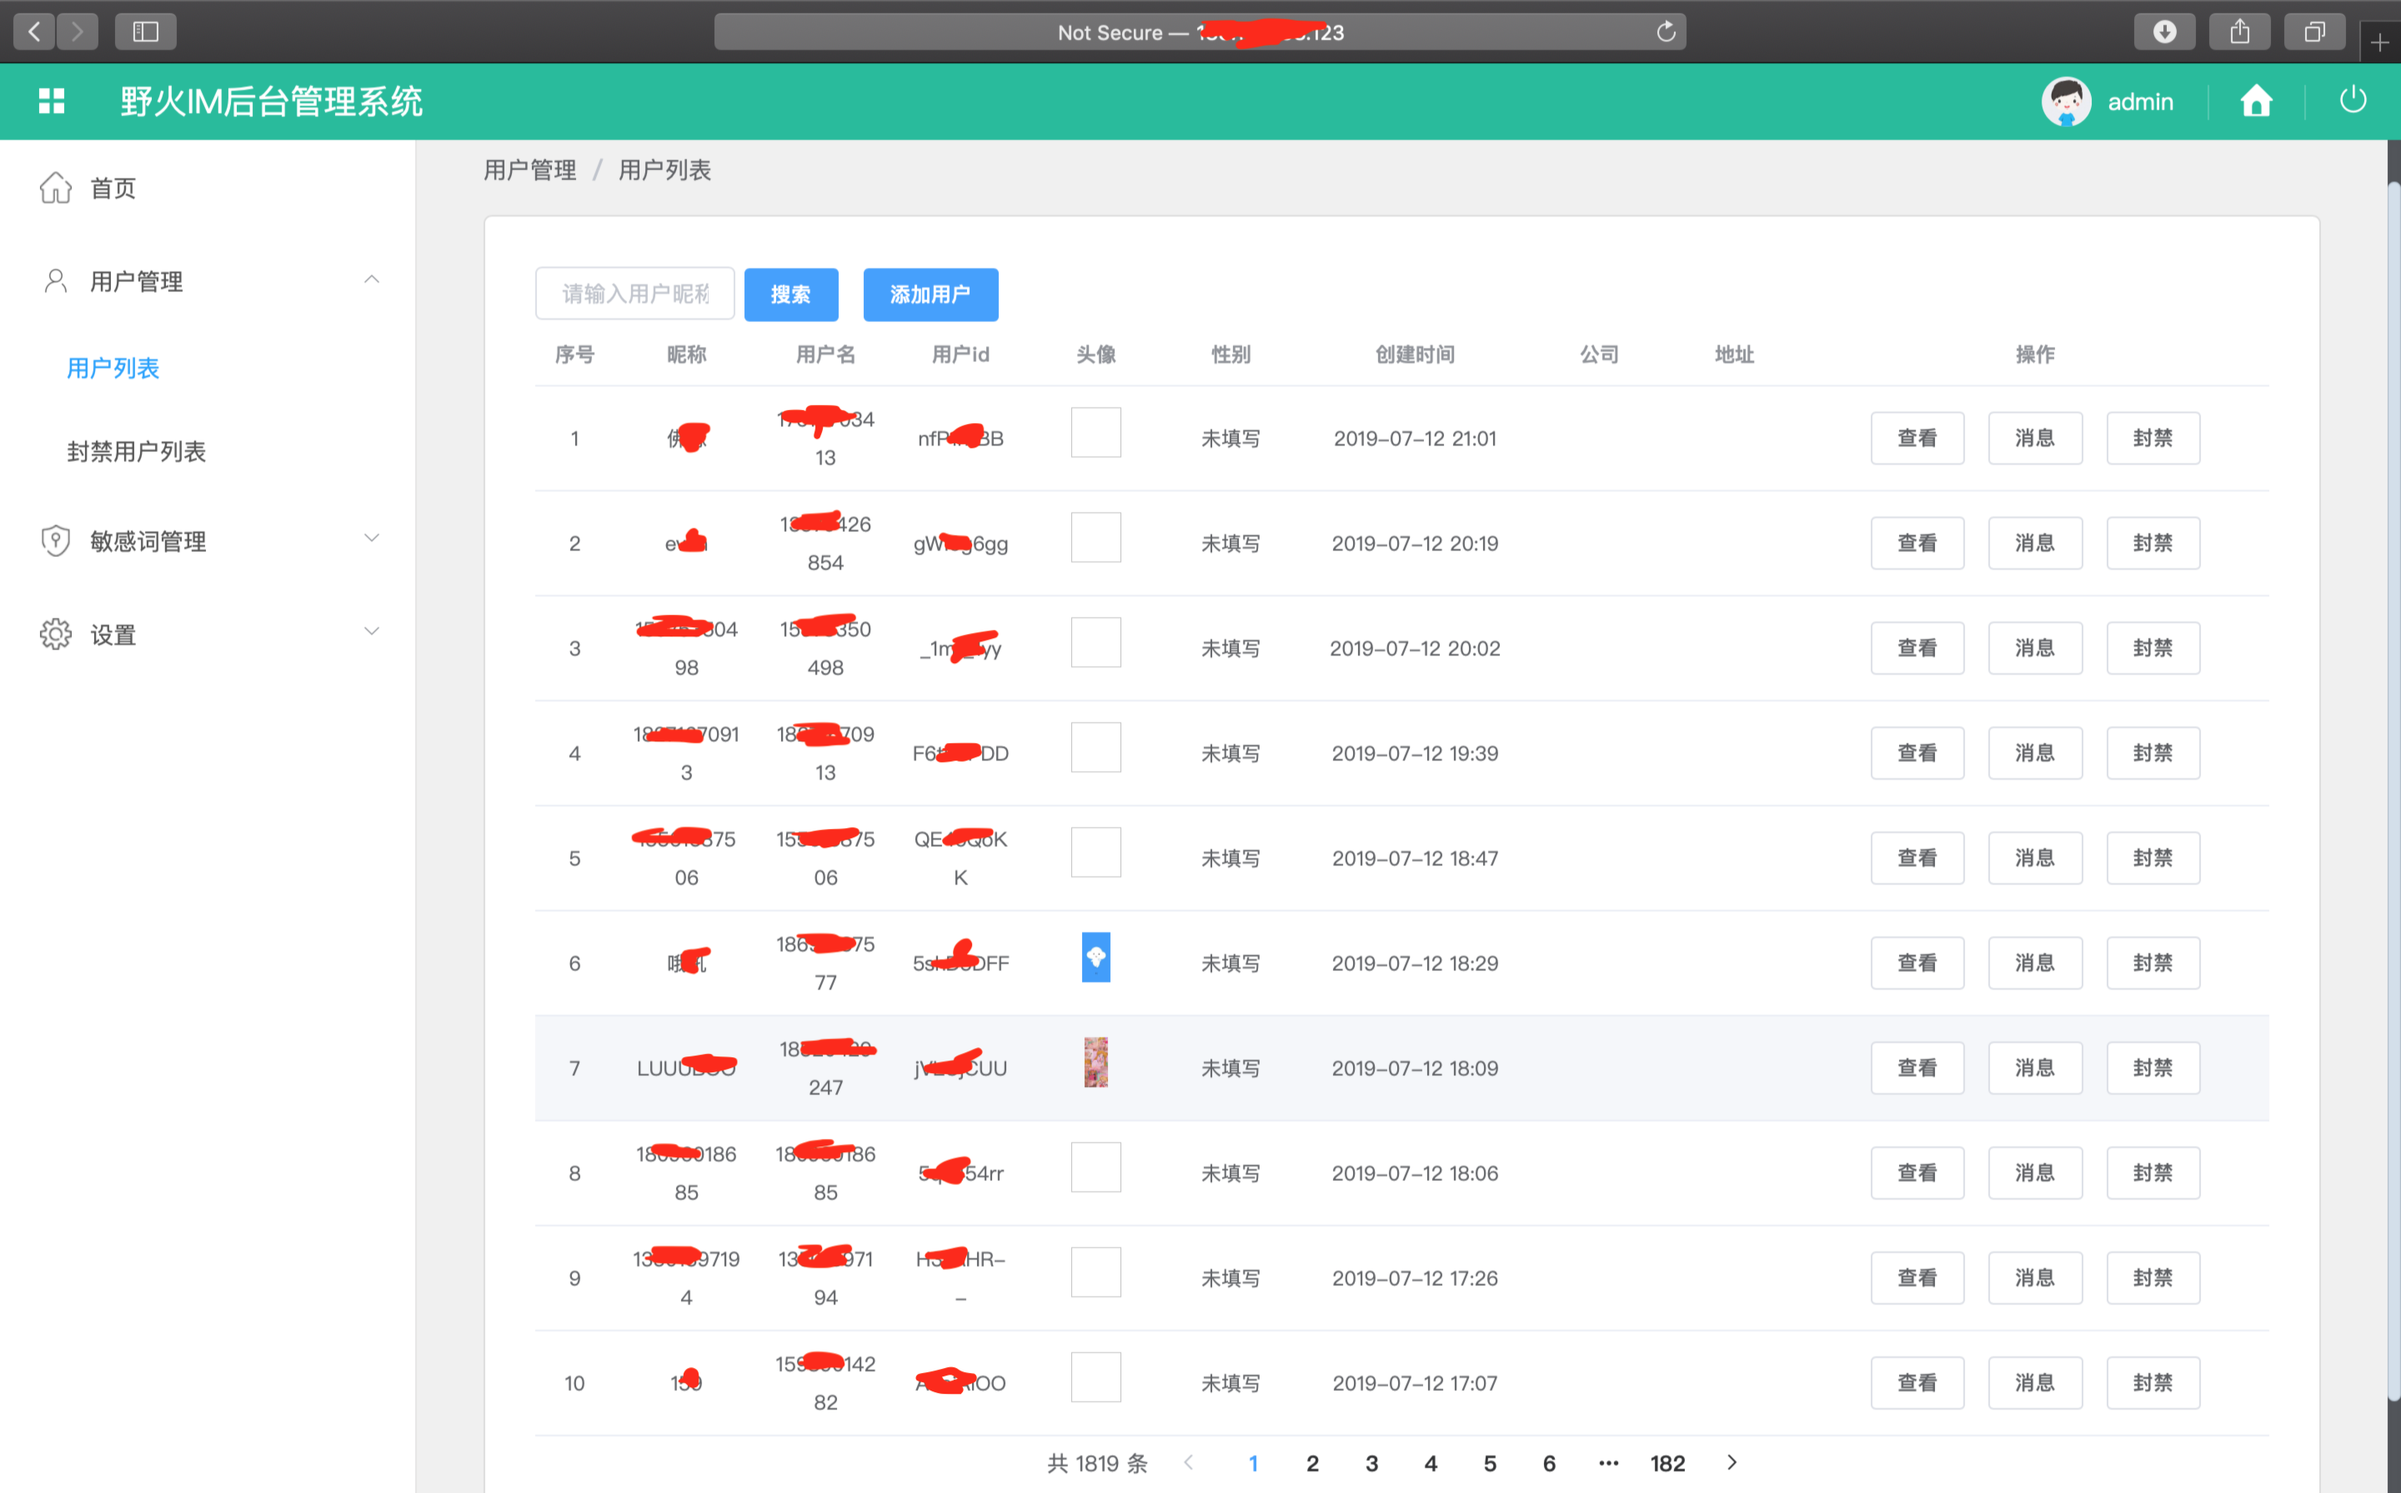
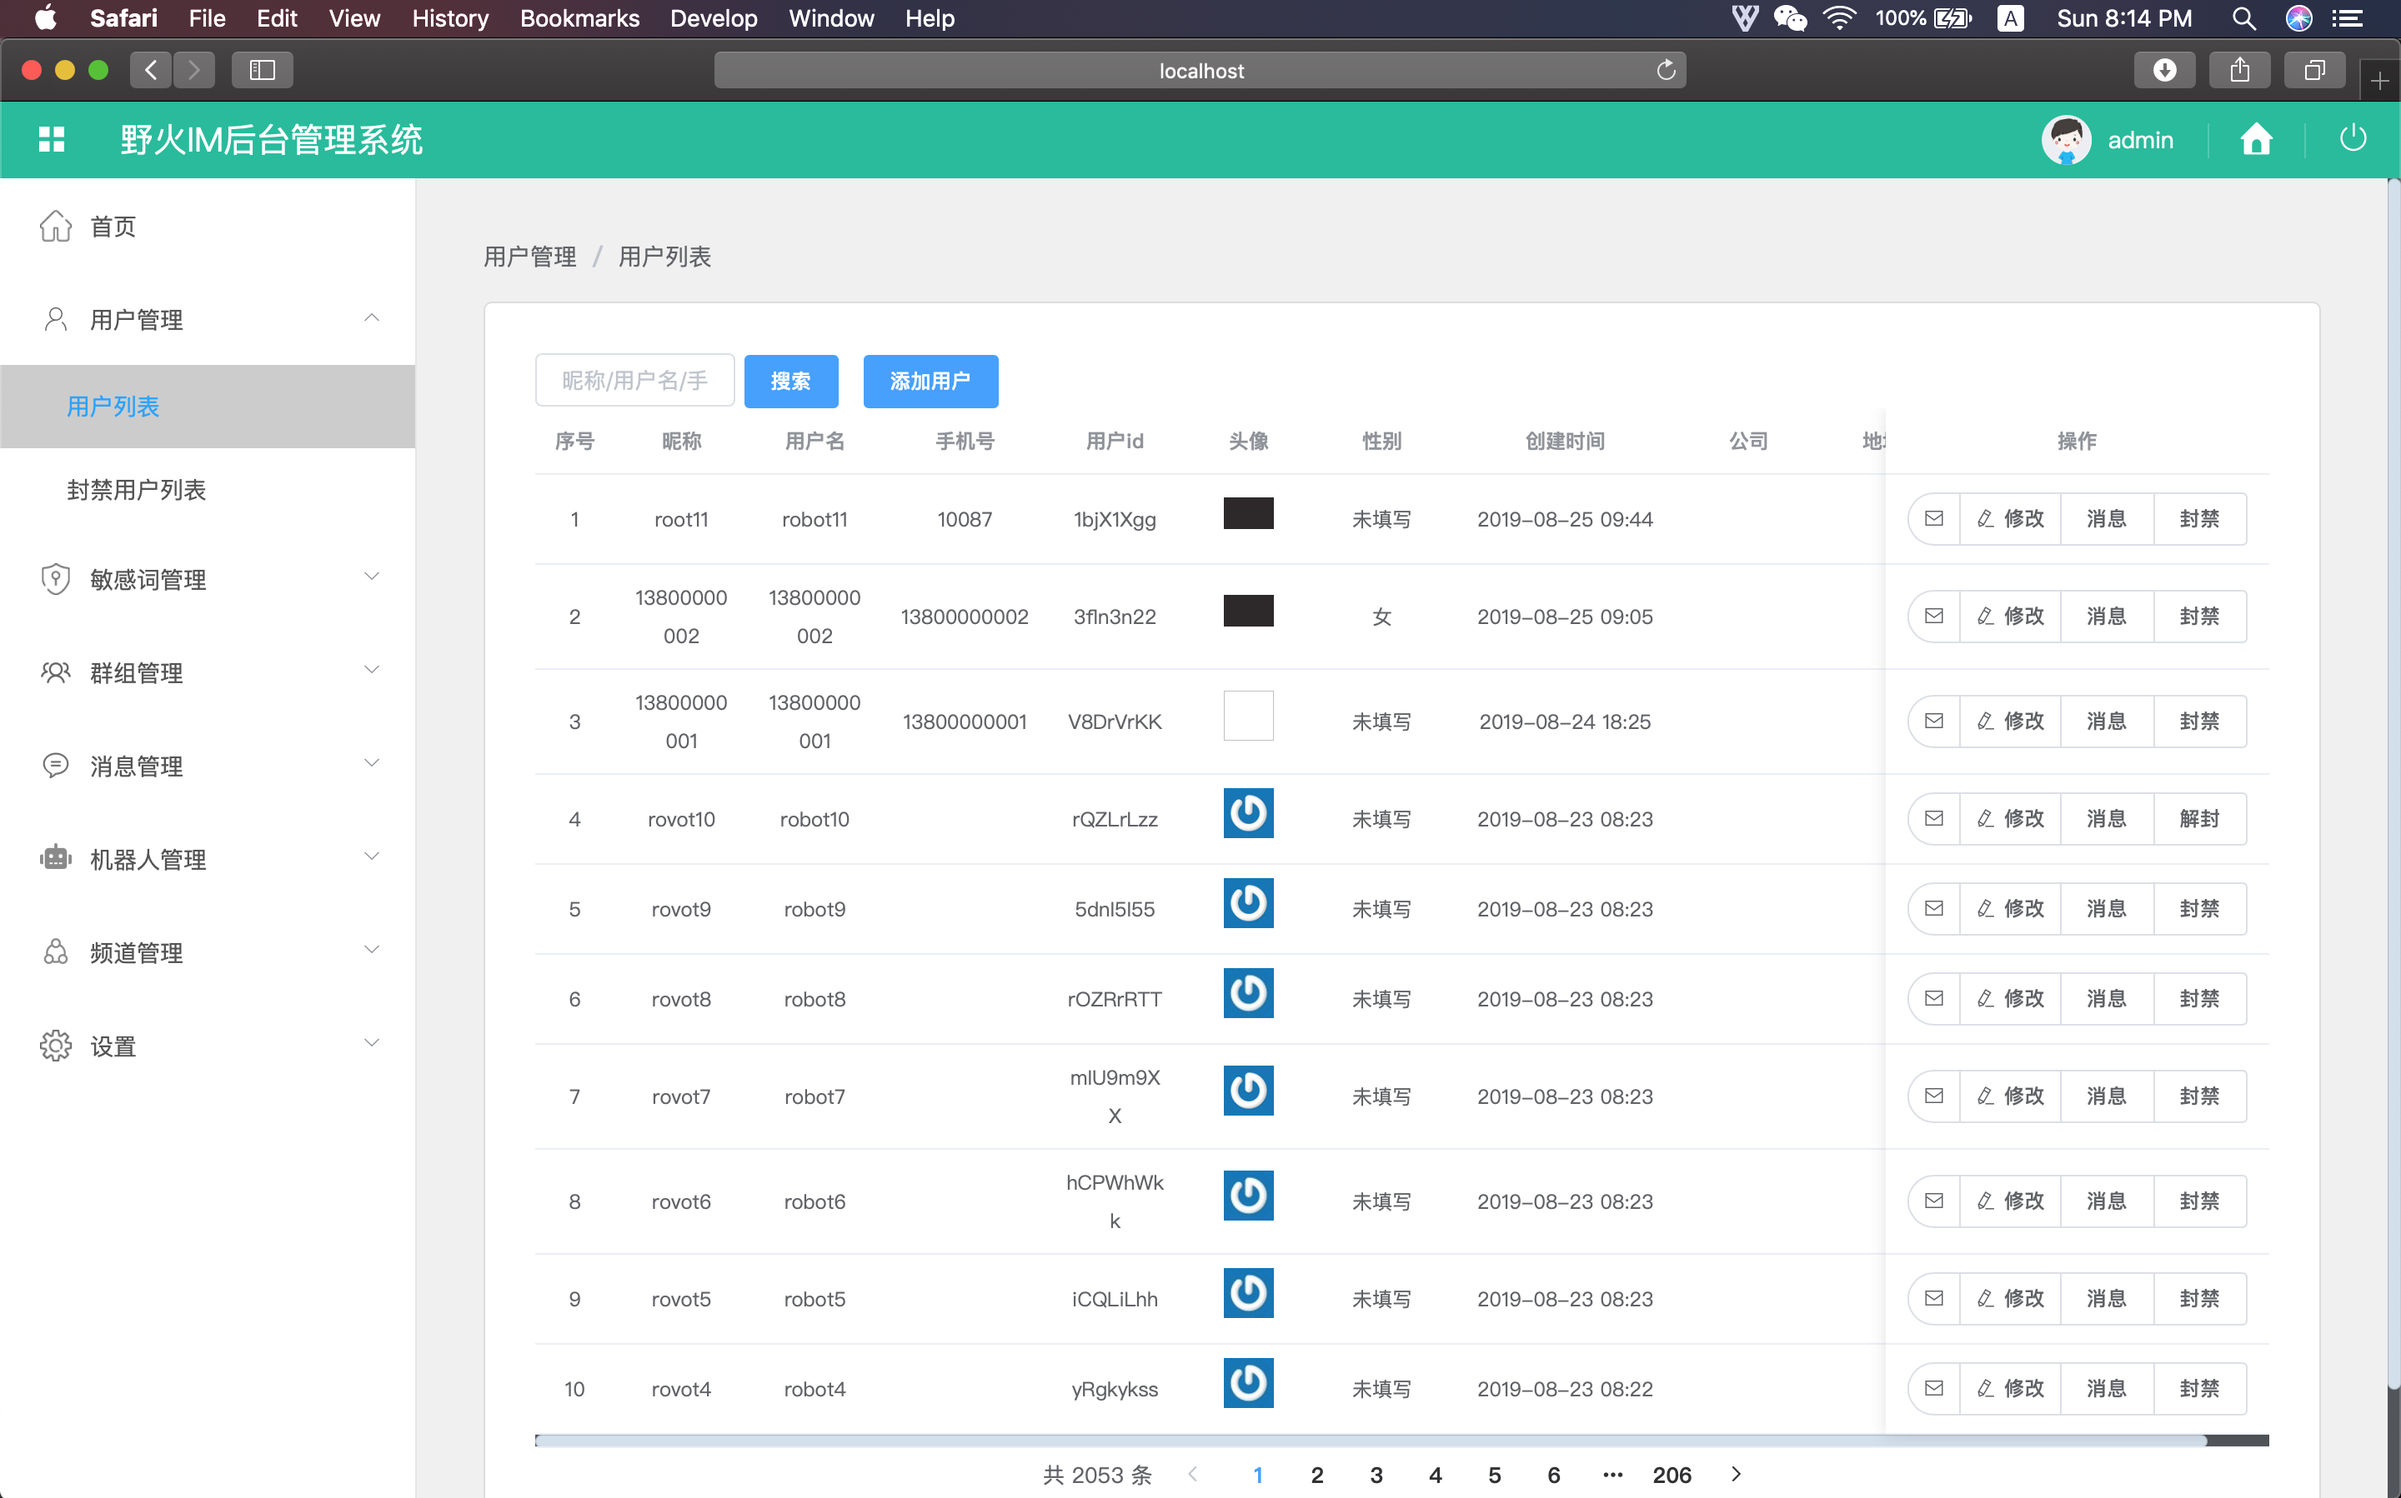
完成二期工作

diff --git a/README.md b/README.md
@@ -9,24 +9,44 @@
 ![欢迎首页](./assert/2.homepage.png)
 
 #### 用户管理
+可以显示用户信息，新建用户，修改用户信息，查看用户的消息，给该用户发送消息，封禁/解封用户。
 ![用户列表](./assert/3.userlist.png)
 
 #### 封禁用户列表
 ![封禁用户列表](./assert/4.blockeduserlist.png)
 
 #### 敏感词管理
+可以添加/删除敏感词
 ![敏感词管理](./assert/5.sensitiveword.png)
 
 #### 敏感词消息
+可以查看谁命中了敏感词
 ![敏感词消息](./assert/6.sensitivemessage.png)
+
+#### 群组管理
+可以新建群组，添加/移除群成员，修改管理员状态，转移群主，解散群组，禁言群组，禁止私聊群组等群组操作
+![群组管理](./assert/8.grouplist.png)
+
+#### 消息管理
+消息列表：可以列出所有消息，可以按照会话查看消息，可以撤回消息
+![消息列表](./assert/9.messagelist.png)
+
+用户消息列表：可以列出该用户的所有收发消息
+![用户消息列表](./assert/9.usermessagelist.png)
+
+广播消息：只有专业版才能支持，可以发送消息给所有人
+![广播](./assert/10.broadcastmsg.png)
+
+多播消息：可以选取100个目标用户，发送文本消息
+![多播](./assert/11.multicastmsg.png)
+
+#### 机器人管理
+可以查看，新建，修改和禁用机器人
+![机器人管理](./assert/12.robotlist.png)
+
+#### 频道管理
+可以查看，新建，修改和禁用频道
+![机器人管理](./assert/13.channellist.png)
 
 #### 修改密码
 ![修改密码](./assert/7.changepwd.png)
-
-#### 未完成功能
-1. 群组管理
-2. 消息管理
-3. 机器人管理
-4. 频道管理
-5. 系统设置
-> 现在购买管理后台的用户，会免费升级到上述未完成功能。
